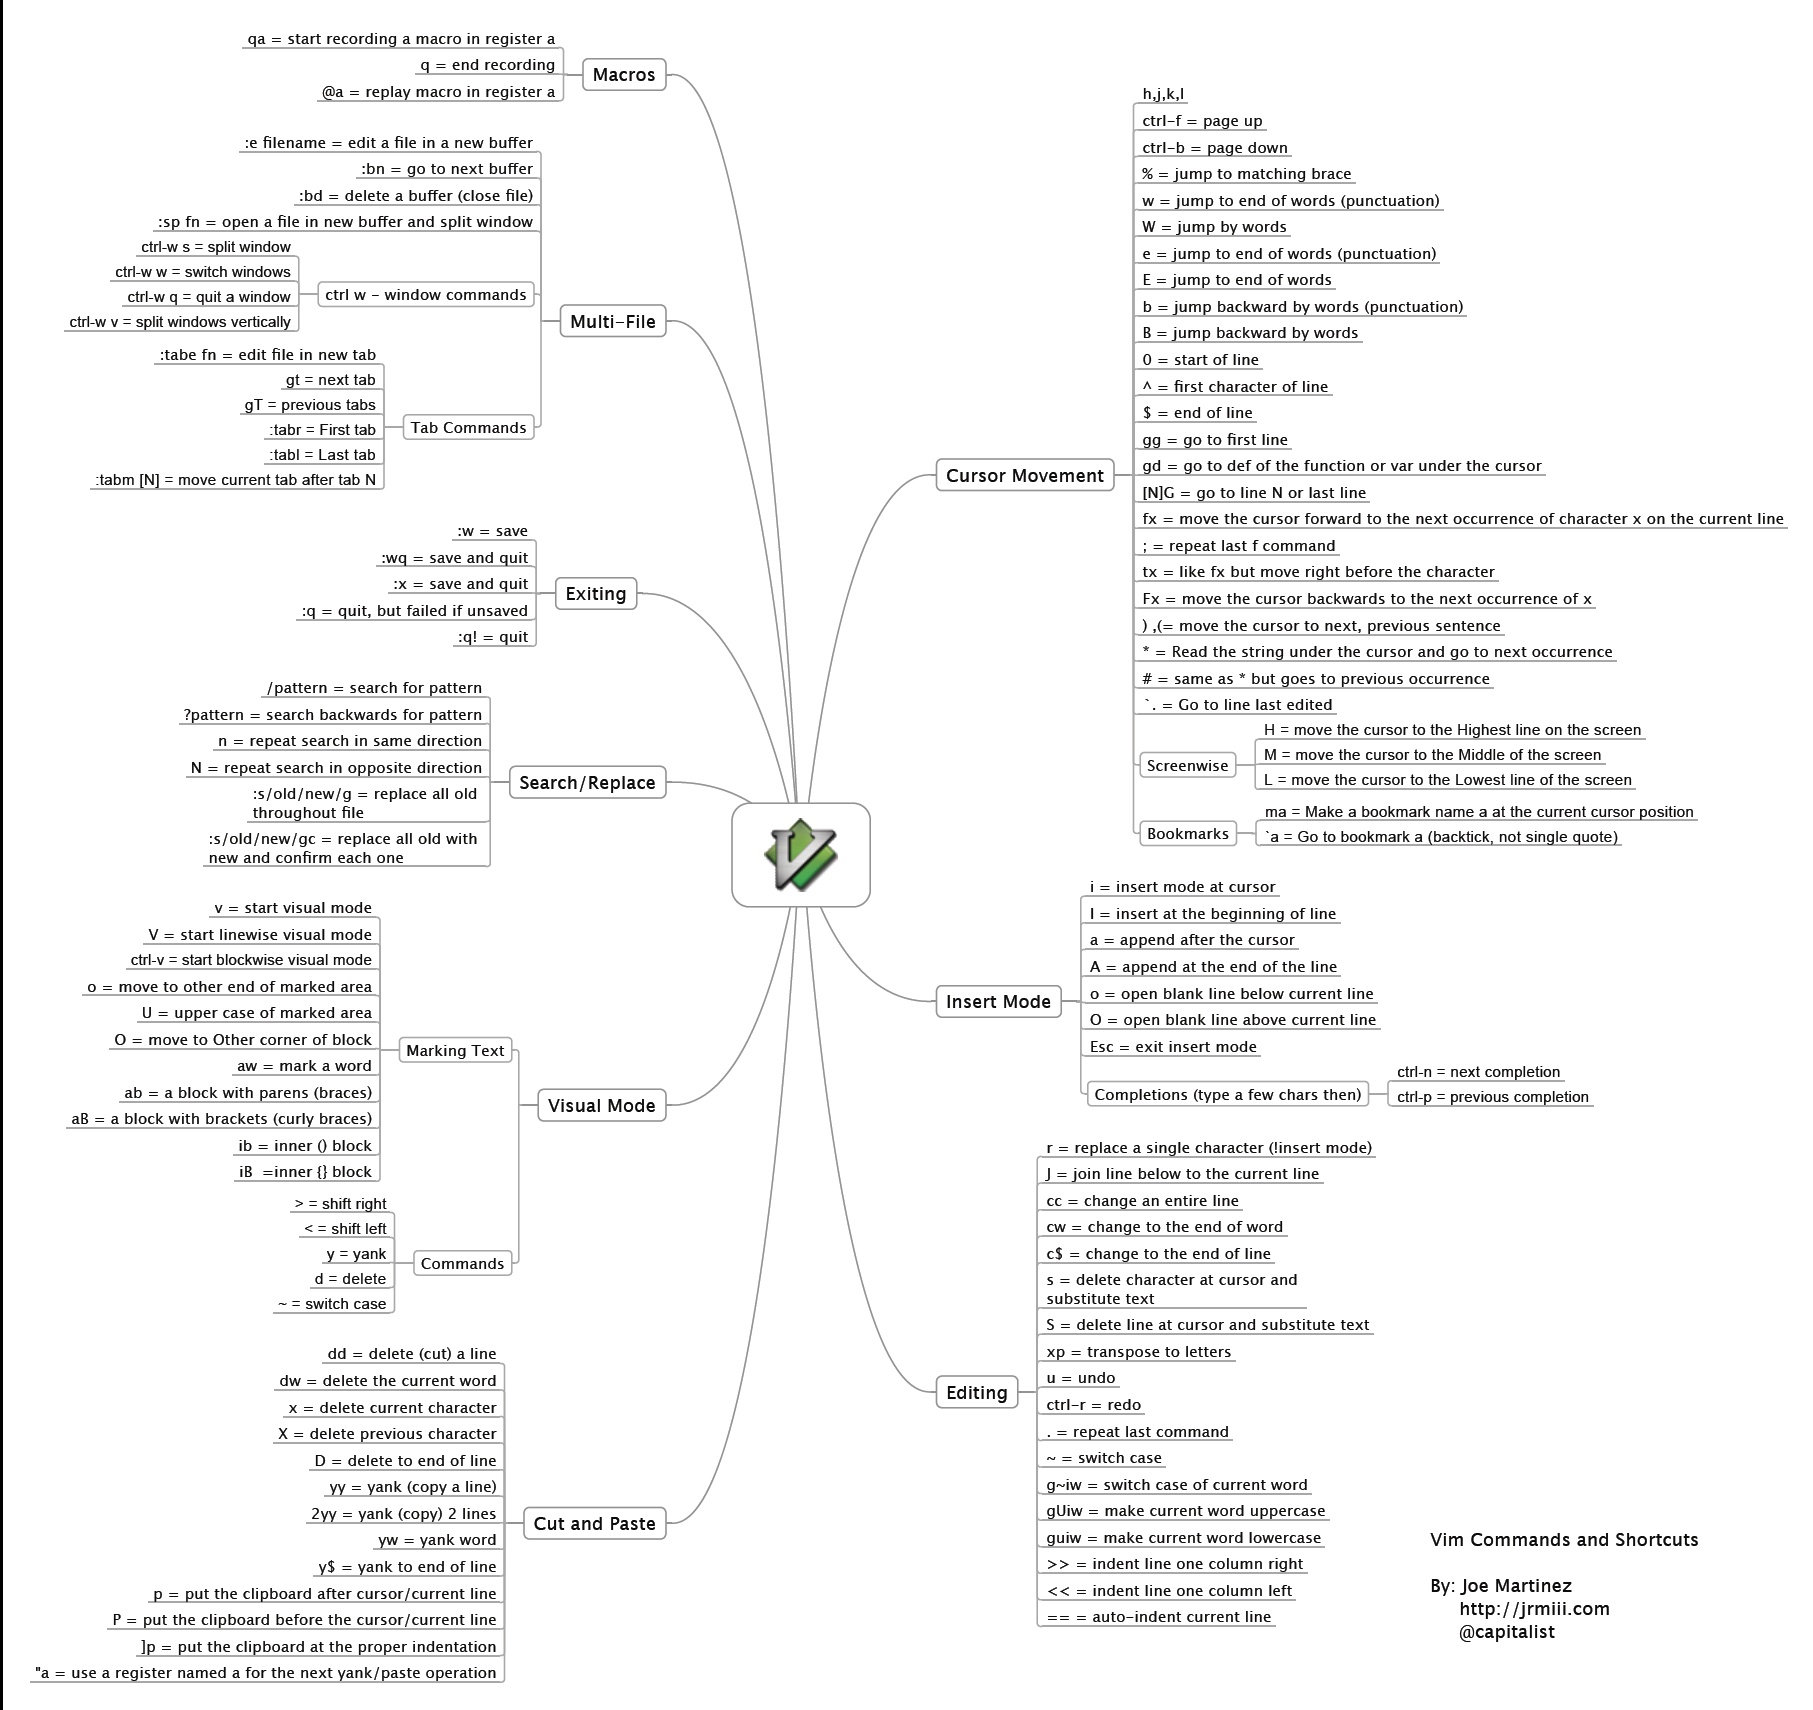
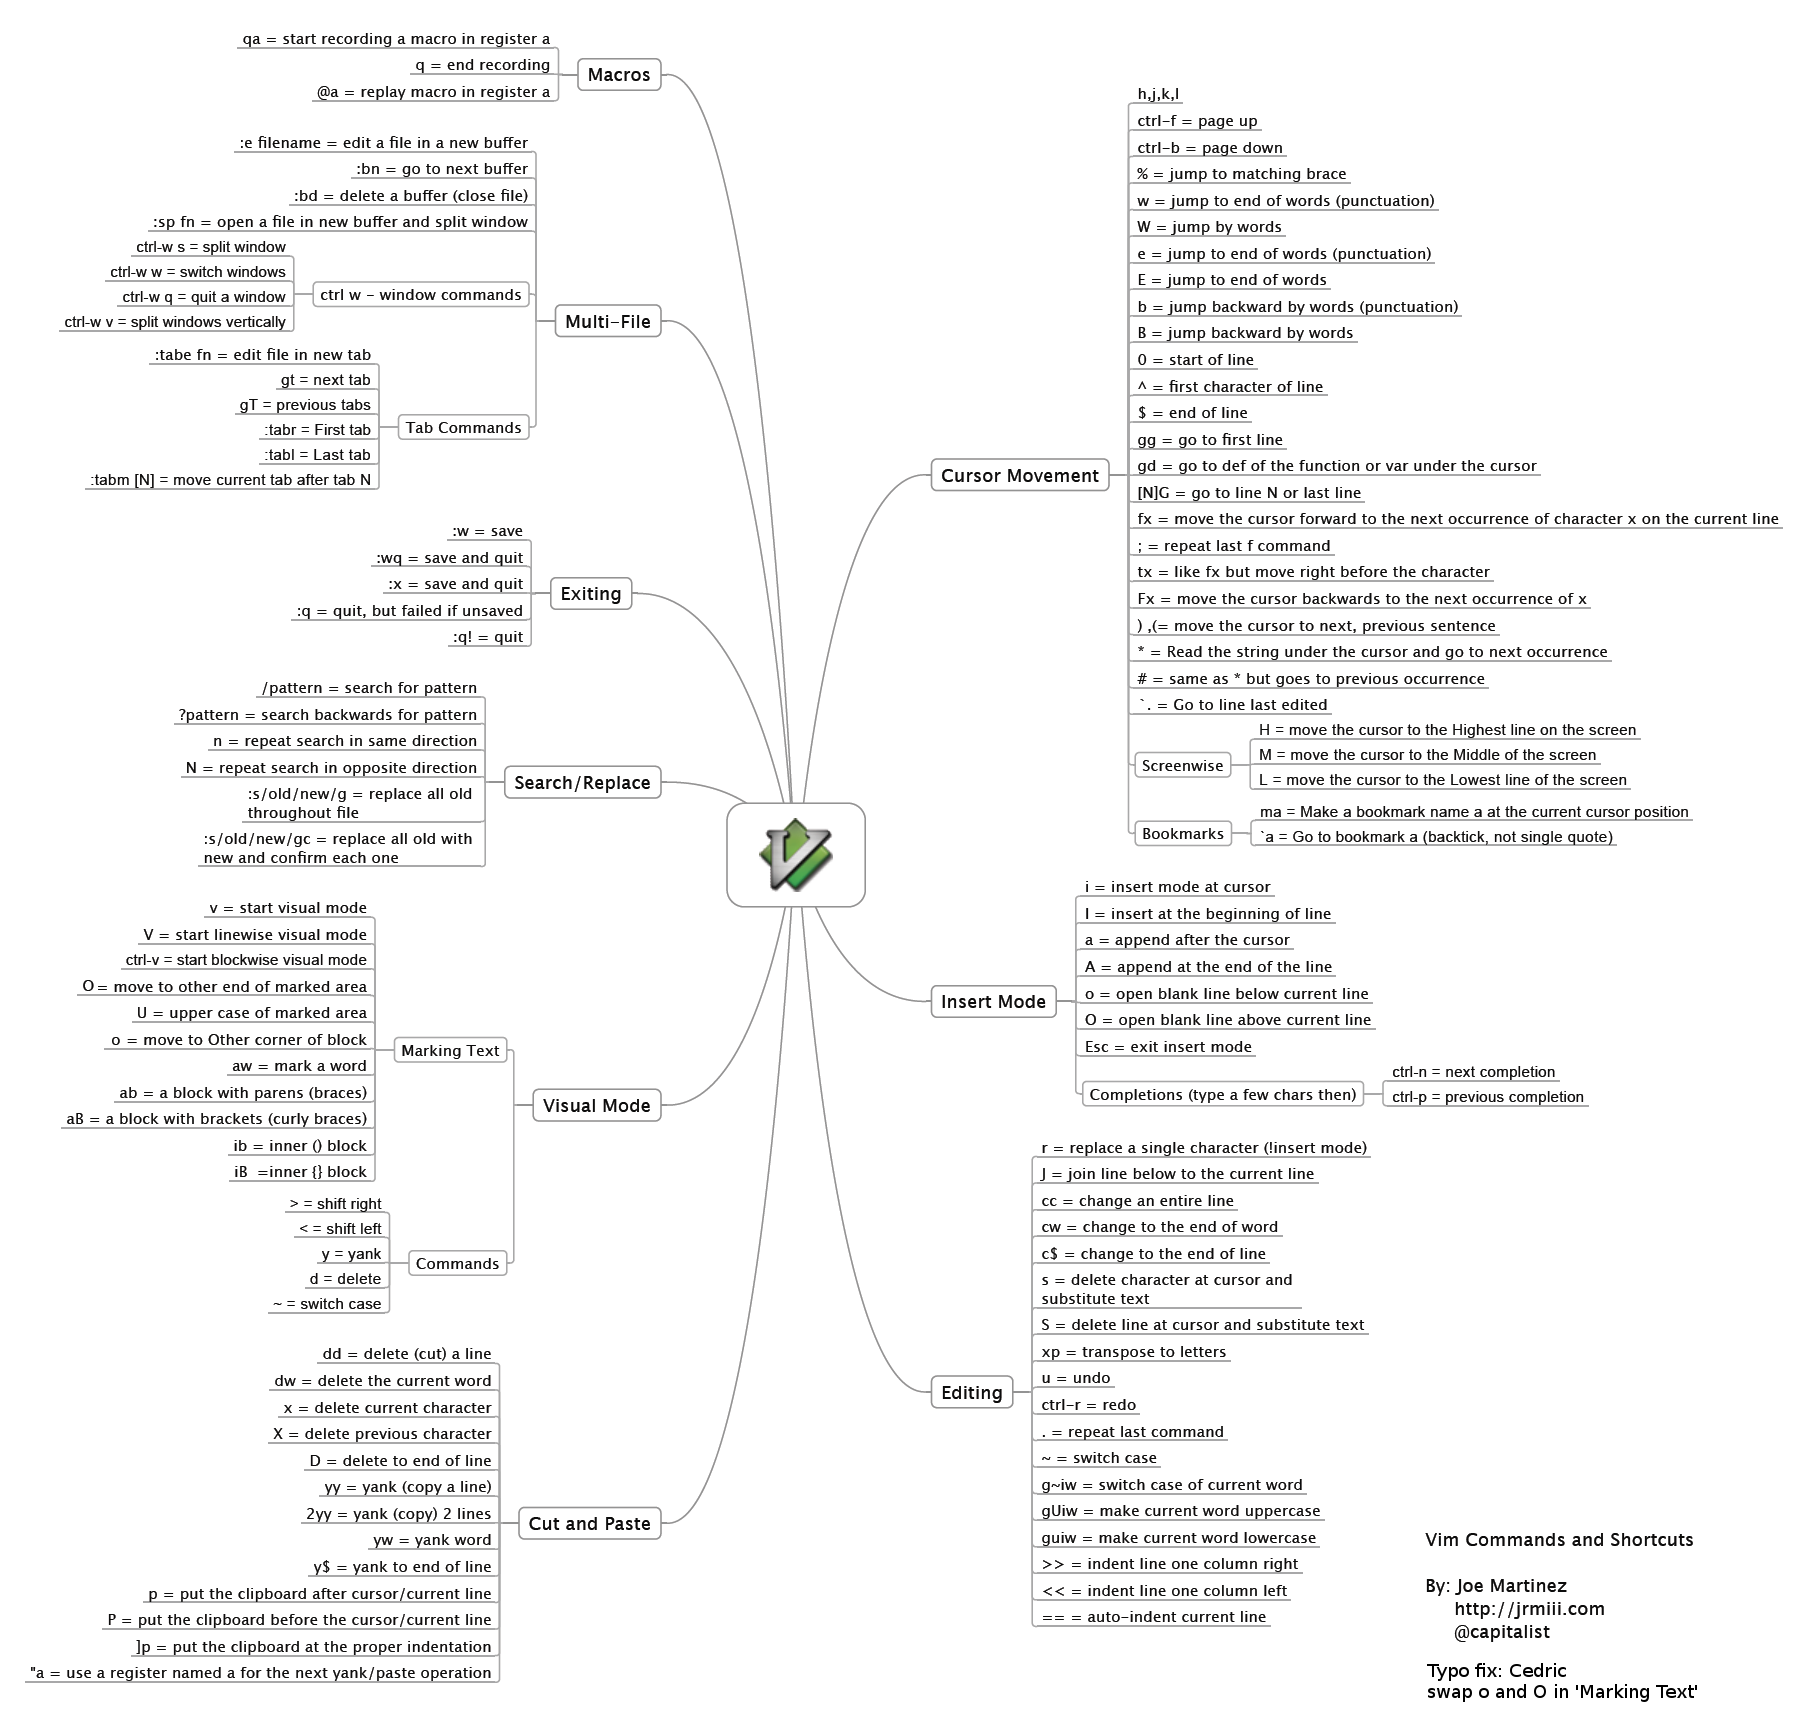
fix typo in vimkeys.png; add visual; fix search.md syntax

diff --git a/search.md b/search.md
@@ -1,2 +1,5 @@
-`[count]*`		forward搜索第count个离目前光标最近的单词
-`[count]#`		backward搜索第count个离目前光标最近的单词
+## [count]*
+forward搜索第count个离目前光标最近的单词
+
+## [count]#
+backward搜索第count个离目前光标最近的单词

diff --git a/visual.md b/visual.md
@@ -1,0 +1,5 @@
+## o
+Move to the other diagonal corner of the marked area
+
+## O
+Move to the other end (on the same line) of the marked area
